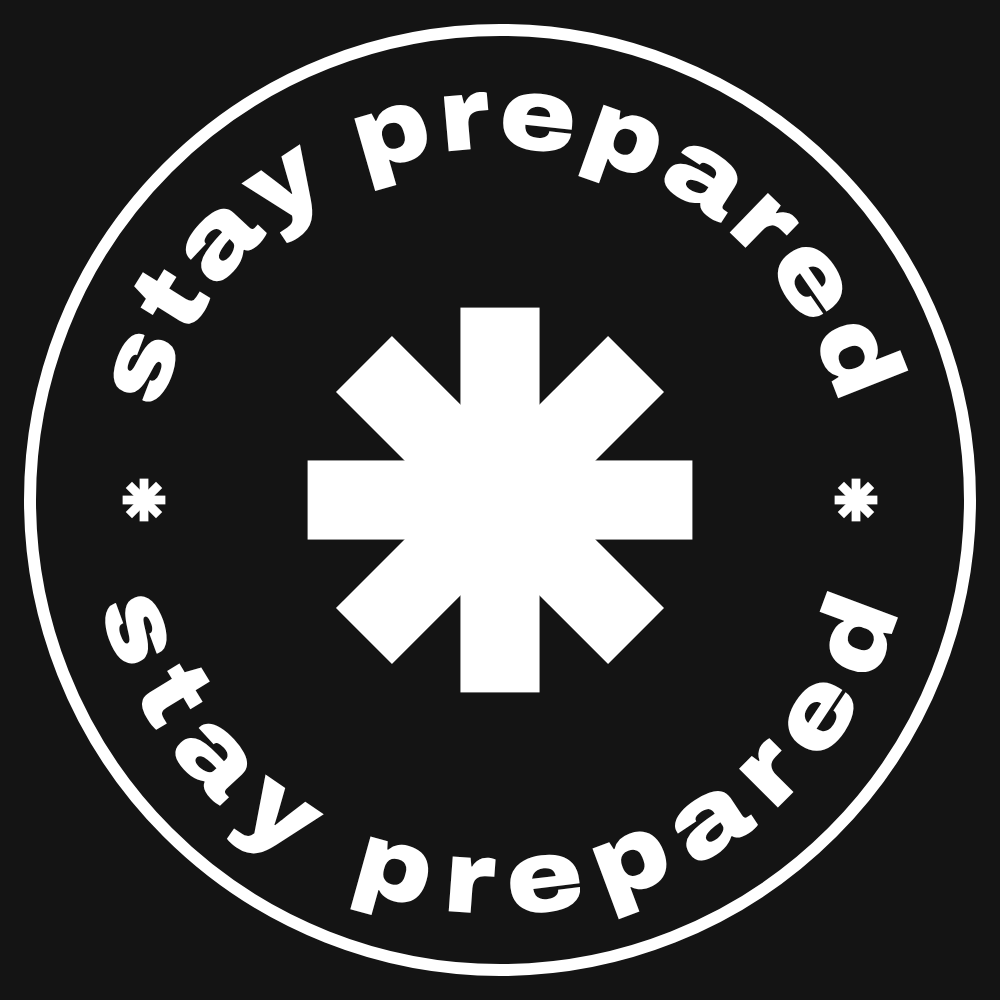
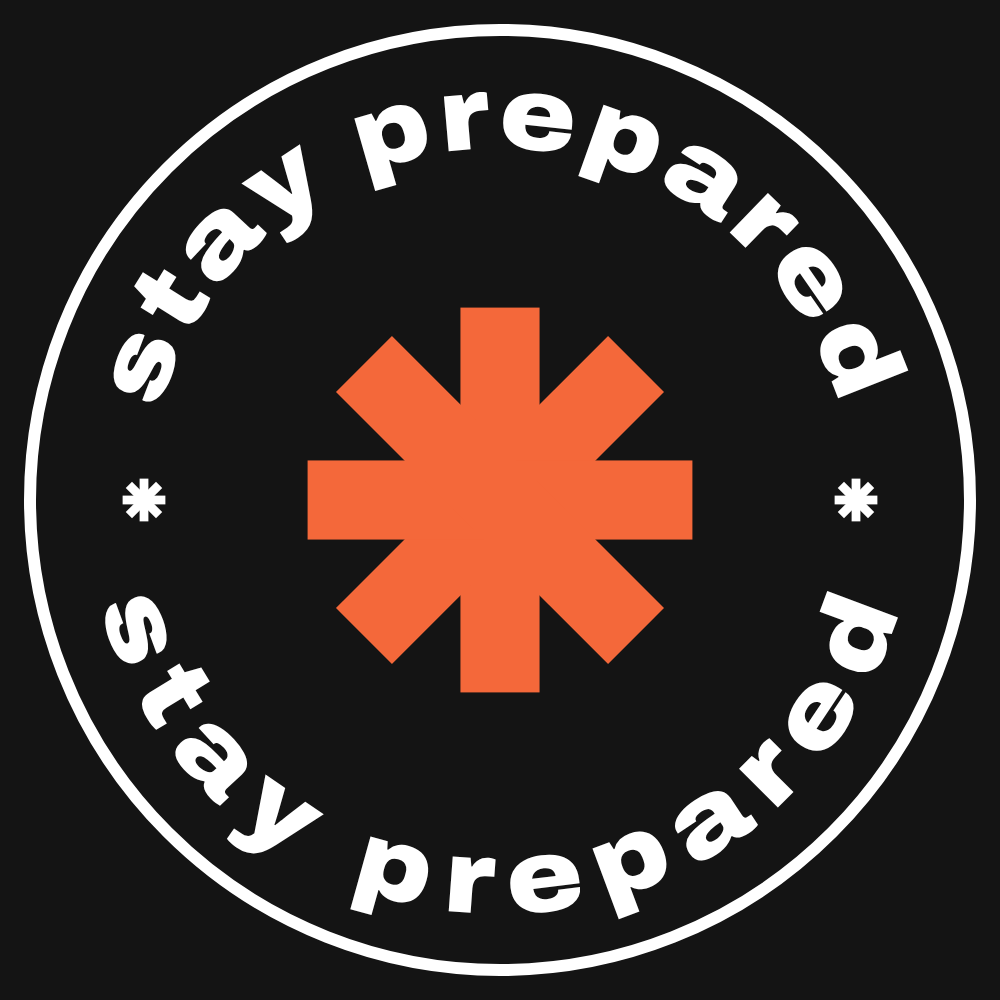
Badge: orange mark on white, no outline
The owner's pick. Noted in DESIGN.md as a brand exception to the Label
Rule for the social profile picture only.

Claude-Session: https://claude.ai/code/session_01MzNVUbnaK5G4TG6VRBN1pe

Changed region(s): [[0.31, 0.31, 0.713, 0.713]]

diff --git a/DESIGN.md b/DESIGN.md
@@ -246,7 +246,7 @@ A bold underlined text link ending in the arrow, 44px tall, width 110. Hover thi
 ### Logo
 Adopted 25 September 2026. The mark is an **asterisk of four square-ended bars** (each 14.651 by 71.263, rotated 0, 45, 90 and 135 degrees about one centre), the site's own mark, drawn by the owner (Figma frame "Cross"). It sits to the left of the words, closed up to match the web address: **✱stayprepared** (changed from two words on 25 September 2026), at 0.85em, centred on the line, 0.3em from the s. It is always one colour, `currentColor`: ink on paper, paper on the ink footer, never a category colour. `components/Wordmark.tsx` holds both the lockup and the bare `Asterisk`. The closed-up spelling is for the lockup only: in sentences, titles and metadata the name stays "Stay Prepared", and the lockup gives screen readers "Stay Prepared" as hidden text.
 
-- **Share image:** `app/opengraph-image.png`, drawn by `scripts/og.mjs`. **Profile picture** (Pinterest, Bluesky): `public/brand/avatar.png` (ink on paper) and `avatar-ink.png` (paper on ink), a round badge with "stay prepared" set round the asterisk, drawn by `scripts/avatar.mjs`. **Pins:** `public/pins/`, drawn by `scripts/pins.mjs`. Both carry the lockup; rerun them after changing it. Pins (revised 26 September 2026) put the lockup small in the footer, not at the top; a pin that names water, food or power fills with that category colour, the rest are ink on paper; each ends with one line saying what the linked page adds. The weather warnings pin shows the Met Office's yellow, amber and red as named swatches: the one exception to the Label Rule, because they are official colours and the pin means nothing without them. They appear nowhere else.
+- **Share image:** `app/opengraph-image.png`, drawn by `scripts/og.mjs`. **Profile picture** (Pinterest, Bluesky): `public/brand/avatar.png` (ink on paper) and `avatar-ink.png` (paper on ink), a round badge with "stay prepared" set round the asterisk, drawn by `scripts/avatar.mjs`. The asterisk in the badge is the food orange with no outline, chosen by the owner on 26 September 2026: a brand exception to the Label Rule that applies to the social profile picture only. **Pins:** `public/pins/`, drawn by `scripts/pins.mjs`. Both carry the lockup; rerun them after changing it. Pins (revised 26 September 2026) put the lockup small in the footer, not at the top; a pin that names water, food or power fills with that category colour, the rest are ink on paper; each ends with one line saying what the linked page adds. The weather warnings pin shows the Met Office's yellow, amber and red as named swatches: the one exception to the Label Rule, because they are official colours and the pin means nothing without them. They appear nowhere else.
 
 - **Favicon:** `app/icon.svg`, the bare asterisk in ink, switching to paper when the browser is dark. `app/favicon.ico` (16, 32, 48) and `app/icon.png` are the fallbacks, drawn by `scripts/icons.mjs` from `public/brand/mark.svg`; rerun it after changing the mark.
 - **Home screen:** `app/apple-icon.png`, 180px, ink asterisk on paper, drawn by the same script.
